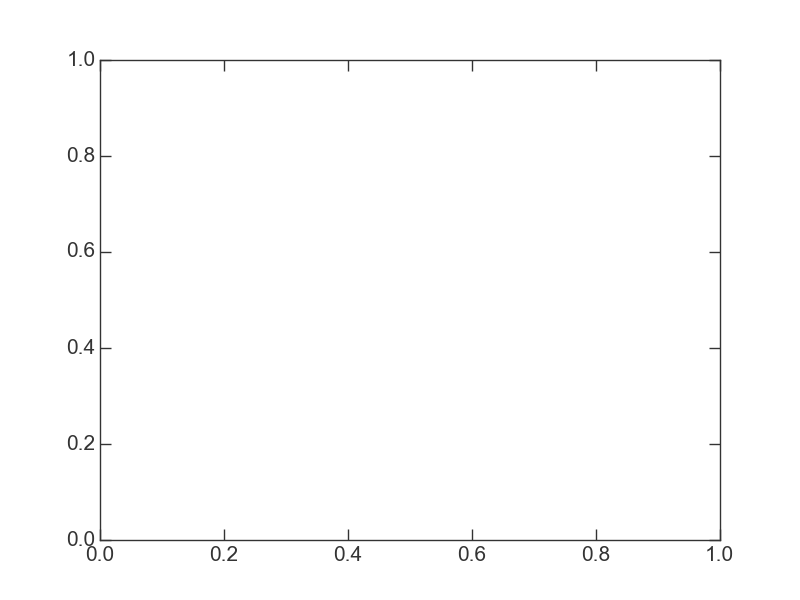
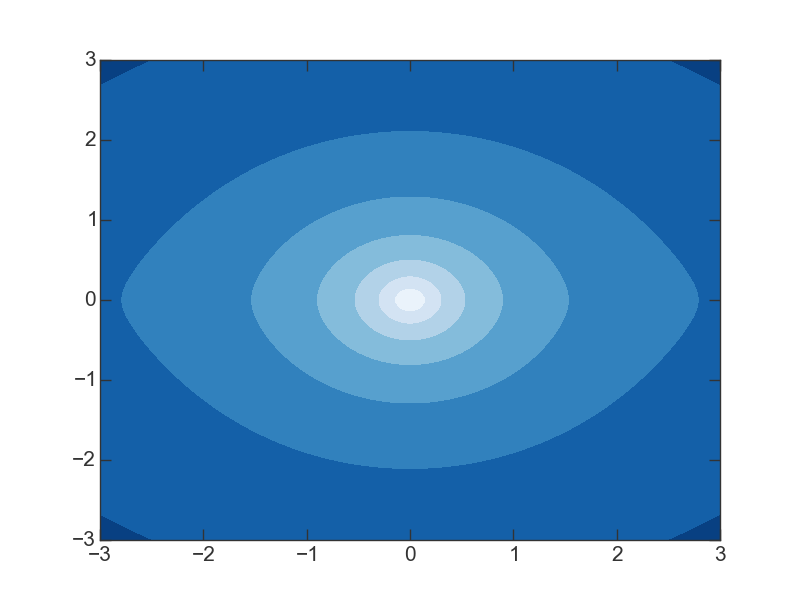
draw onto correct figure

diff --git a/docs/_code/potential.py b/docs/_code/potential.py
@@ -42,6 +42,6 @@ bulge = sp.HernquistPotential(m=3E10, c=0.7, units=galactic)
 pot = sp.CompositePotential(disk=disk, bulge=bulge)
 
 x = z = np.linspace(-3.,3.,100)
-pot.plot_contours(grid=(x,0,z), axes=ax)
+fig,ax = pot.plot_contours(grid=(x,0,z), ax=ax)
 
 fig.savefig("../_static/potential/composite.png")
